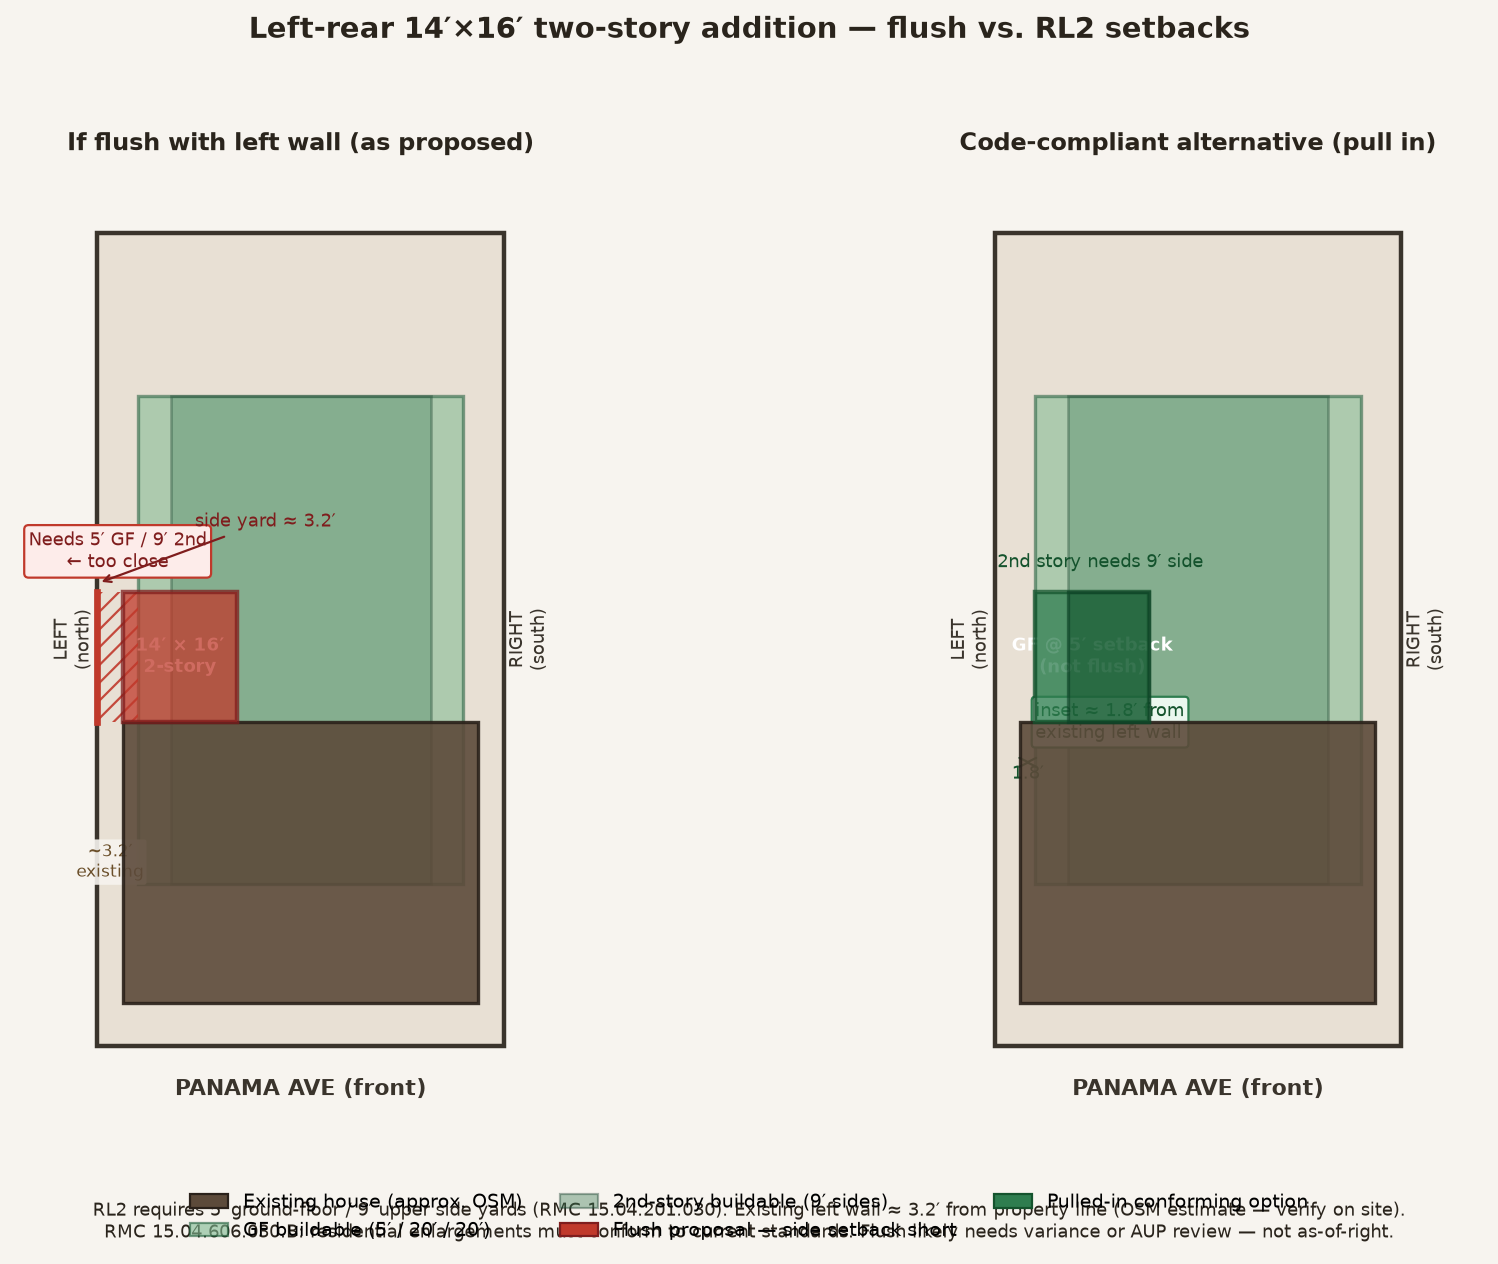
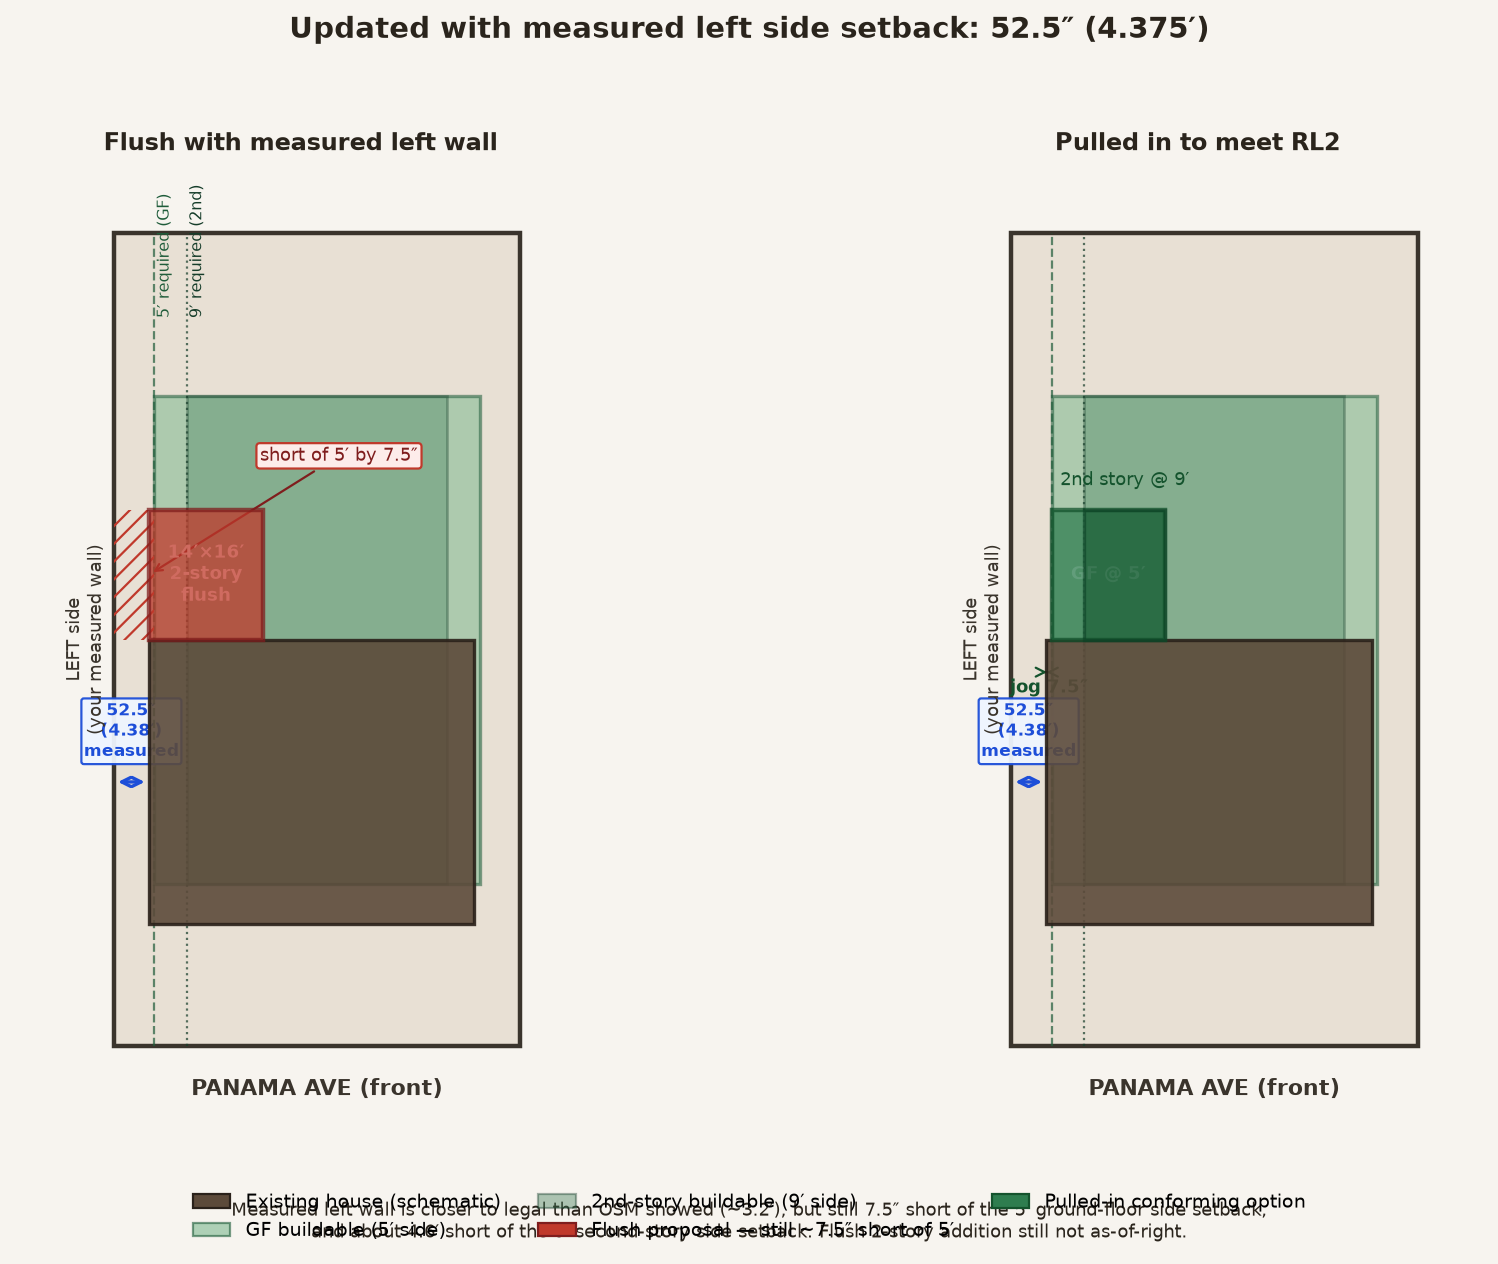
Update side setback with owner measurement of 52.5 inches
Replace OSM ~3.2 ft estimate with measured 4.375 ft left-side
setback; refresh flush-vs-conforming addition diagram.

diff --git a/property/zoning/left-rear-addition-setback-check.md b/property/zoning/left-rear-addition-setback-check.md
@@ -2,57 +2,42 @@
 
 **Proposal:** 2-story addition at left rear of house, **14′ wide × 16′ deep**, staying flush with the existing left wall.
 
-**Street orientation:** Facing the house from Panama Ave, **left = north** side yard.
+## Measured left side setback (owner)
 
-## Existing left-wall setback (approximate)
+| Item | Value |
+| --- | --- |
+| Left wall to parcel boundary | **52.5 inches (4.375′)** |
+| Wall runs | Parallel to parcel boundary |
+| Prior OSM/GIS estimate | ~3.2′ (superseded by measurement) |
 
-From county/city GIS + OSM building footprint (not a survey):
+## RL2 requirement vs measurement
 
-| Measurement | Approx. value | RL2 required |
-| --- | --- | --- |
-| Left (north) side setback | **~3.2′** | 5′ ground / 9′ upper |
-| Right (south) side setback | **~3.2′** | 5′ ground / 9′ upper |
-| Front setback (OSM — may include porch / be inaccurate) | ~5.4′ | 20′ (or block average) |
-| Rear yard remaining today | ~60.1′ | 20′ (or 10′ if eligible) |
-
-Your read that the house sits too close is consistent with the GIS/OSM estimate (~3′ side yards on a ~50′ lot). **Measure on site** before relying on this number.
+| Standard | Required | Measured / proposed | Status |
+| --- | --- | --- | --- |
+| Side yard — ground floor | **5.0′ (60″)** | **4.375′ (52.5″)** | **Short by 7.5″** |
+| Side yard — second story | **9.0′ (108″)** | **4.375′** if flush | **Short by ~4.6′** |
 
 ## Can you stay flush?
 
-**Not as-of-right.**
+**Still not as-of-right**, but it is much closer than the map suggested.
 
-1. **Current RL2 setbacks** (RMC 15.04.201.030): ground floor **5′**, second story **9′** from the side property line.
-2. **Residential enlargements must meet current standards** (RMC 15.04.606.030.B): even if the old house is allowed to remain, *new* floor area generally has to comply with today’s setbacks.
-3. A flush 2-story wall at ~3.2′ would miss both the 5′ and 9′ requirements.
+- A flush **ground-floor** wall would be only **7.5″** into the required 5′ side yard.
+- A flush **second story** would still be far inside the required **9′** side yard.
+- RMC 15.04.606.030.B: residential enlargements must meet current standards.
+- Possible discretionary relief: AUP under 15.04.606.070.C.2 and/or variance — confirm with Richmond Planning.
 
-### Possible discretionary paths (not guaranteed)
+## Conforming alternative
 
-- **RMC 15.04.606.070.C.2** — Zoning Administrator *may* allow an enlargement into a nonconforming yard with an **administrative use permit** if it does **not further reduce** the nonconforming yard (i.e., no closer to the property line than the existing wall), and other limits are met. This is discretionary, and a brand-new 2-story rear wing in that side yard is a harder ask than a minor in-fill.
-- Otherwise you would be looking at a **variance**, which Richmond often resists when a conforming design is feasible (pulling the wall in).
+- Ground floor: pull left wall in by **7.5″** (to the 5′ line) — small jog off the existing wall.
+- Second story: further inset to the **9′** line (about **4.6′** in from the existing wall), or keep the whole 2-story mass at 9′.
 
-**Practical expectation:** plan the addition to the **5′ / 9′** lines (or confirm a formal exception with Planning), not flush.
-
-## Your 14′ × 16′ box otherwise
+## Other proposal checks (unchanged)
 
 | Check | Result |
 | --- | --- |
 | Footprint | 224 sq ft |
 | Floor area (2 stories) | 448 sq ft |
-| Remaining FAR budget (~1,658 sq ft) | OK |
-| Rear setback after 16′ extension | ~44′ remaining → OK vs 20′ |
-| Side setback if flush | **Fails** (~3.2′ vs 5′/9′) |
-| Side setback if left wall at 5′ (GF) | OK for ground floor; 2nd story should step in to 9′ |
+| FAR budget | OK vs ~1,658 sq ft remaining |
+| Rear yard after 16′ extension | Likely OK vs 20′ (confirm on site) |
 
-## Building code note
-
-Even with zoning relief, walls/openings this close to the property line trigger **CRC R302** fire-separation rules (fire-rated walls, limited openings). That gets expensive/awkward at ~3′.
-
-## Recommended next step
-
-Ask Richmond Planning counter / Zoning Administrator:
-
-1. Confirm measured side setback (bring a site plan with dimensions).
-2. Whether a flush side-wall extension can use **15.04.606.070.C.2** AUP, or must meet 5′/9′.
-3. Whether a 2nd story in that side yard can stay flush or must step back to 9′.
-
-See diagram: [`left-rear-addition-setback-check.png`](left-rear-addition-setback-check.png)
+Diagram: [`left-rear-addition-setback-check.png`](left-rear-addition-setback-check.png)

diff --git a/property/zoning/README.md b/property/zoning/README.md
@@ -53,12 +53,21 @@ Standards from **RMC 15.04.201.030** (RH / RL1 / RL2 development standards):
 5. **Lot coverage budget:** total building footprints (house + garage + addition) ≤ **2,500 sq ft**.
 6. **Building code (CRC/CBC)** still applies inside the envelope (egress, light/air, fire separation at walls/openings near property lines, structural, energy, etc.). Zoning setbacks are usually the first filter for *where*; the code governs *how*.
 
+## Measured setbacks (owner)
+
+| Item | Value |
+| --- | --- |
+| Left side wall to parcel line | **52.5″ (4.375′)** — runs parallel |
+| Source | Owner field measurement (supersedes OSM ~3.2′ estimate) |
+
+See [`left-rear-addition-setback-check.md`](left-rear-addition-setback-check.md) for the flush vs. pull-in addition check.
+
 ## Assumptions
 
 - Treated as an interior lot (not a corner); street-side setback not applied.
 - Used code table setbacks (front 20′ / rear 20′), not measured neighbor averages.
 - Did not apply ADU-specific setbacks (state/local ADU rules differ if that is the project type).
-- Existing footprints are OSM-derived via the city layer and may not match a survey.
+- Existing footprints are OSM-derived via the city layer and may not match a survey — prefer field measurements.
 
 ## Next verification steps with the City
 
